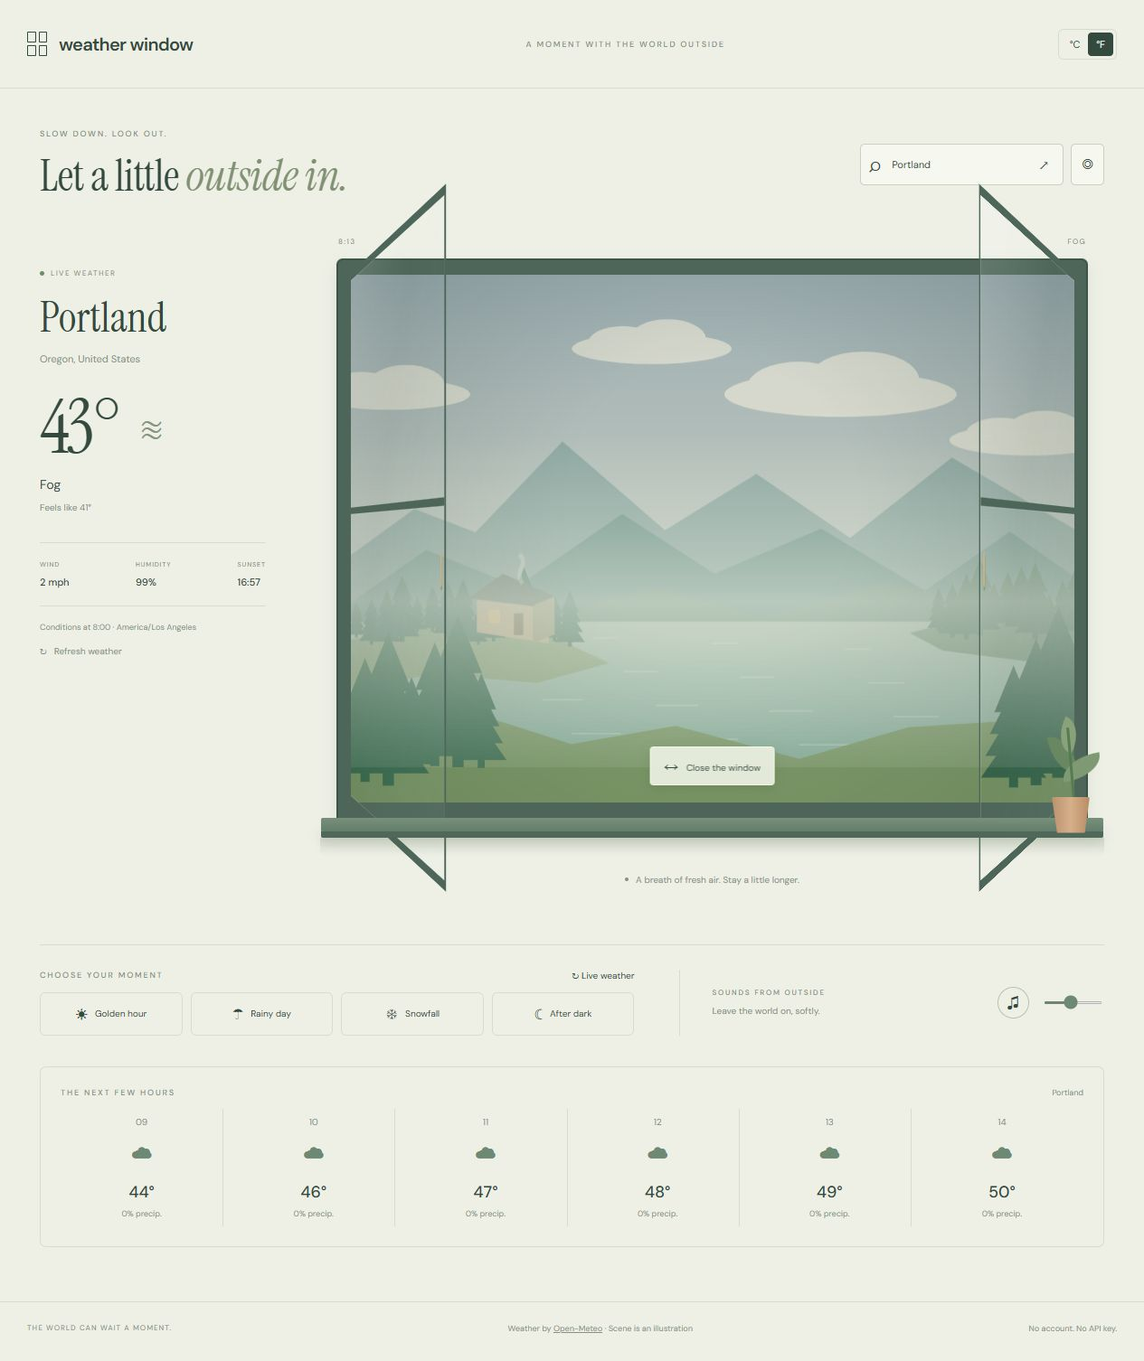
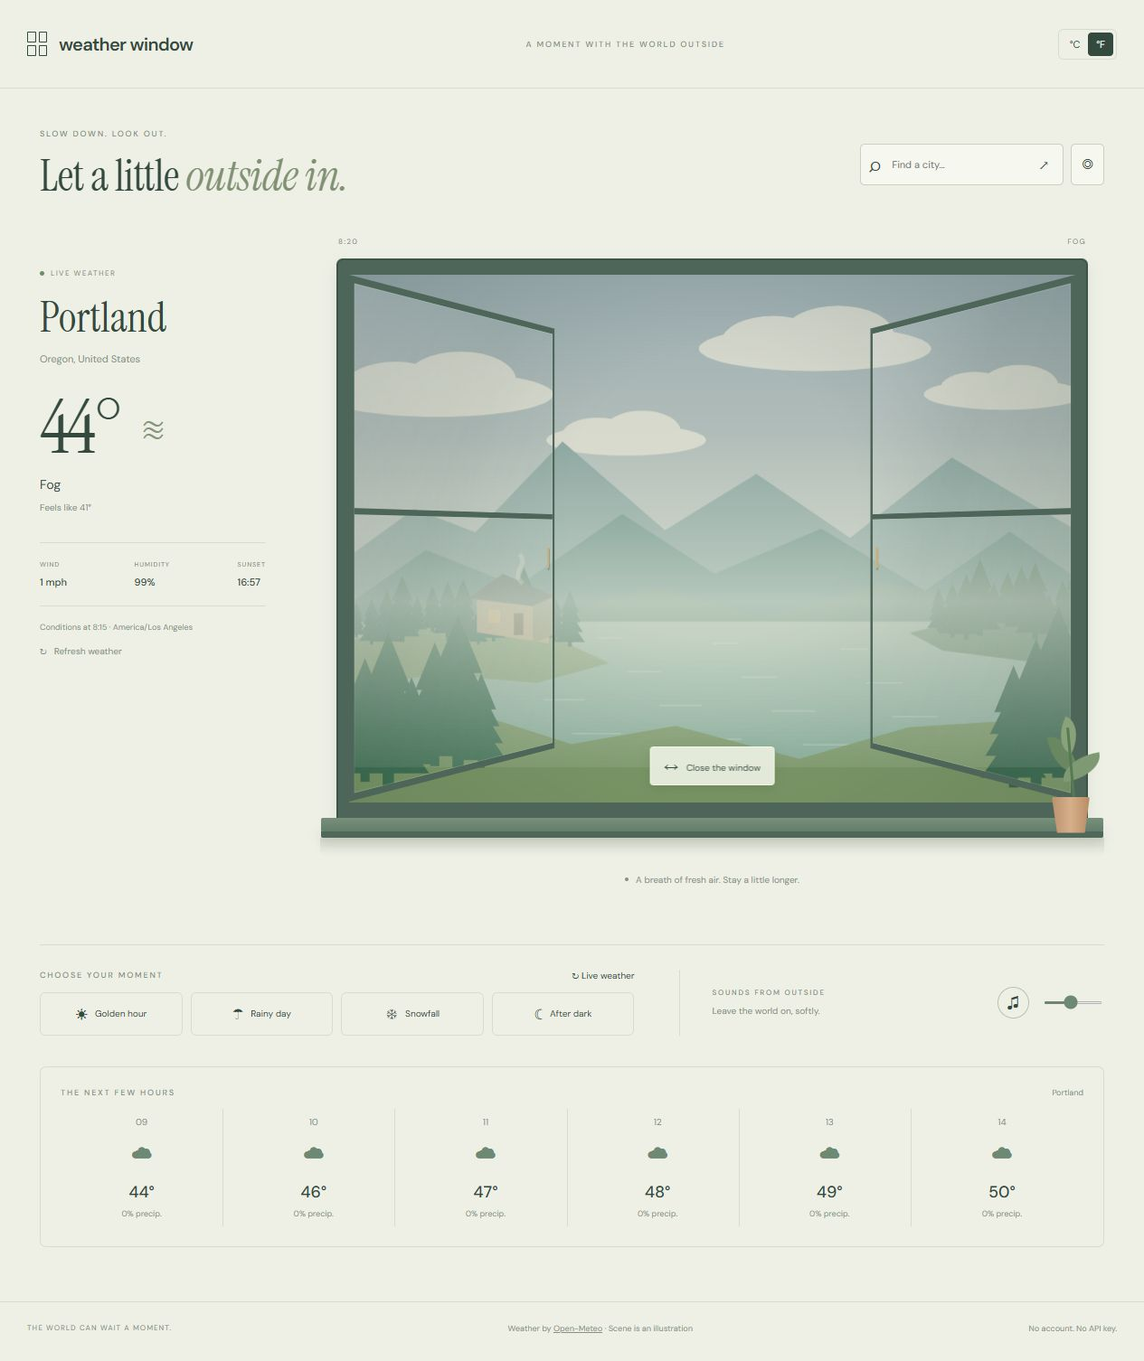
Open window panes outward without overlapping the page

diff --git a/style.css b/style.css
@@ -1,2 +1,2 @@
 @import url('https://fonts.googleapis.com/css2?family=DM+Sans:wght@400;500;600;700&family=Instrument+Serif:ital@0;1&display=swap');
-:root{--paper:#eef0e6;--ink:#354a3e;--muted:#869184;--line:#d6ddce;--accent:#6d8873;--frame:#4d6659}*{box-sizing:border-box}body{margin:0;background:var(--paper);color:var(--ink);font:13px 'DM Sans',sans-serif}button,input{font:inherit}button{color:inherit;cursor:pointer}button:focus-visible,a:focus-visible,input:focus-visible{outline:3px solid #a18150;outline-offset:4px}header,main,footer{max-width:1380px;margin:auto}header{height:98px;padding:0 30px;border-bottom:1px solid var(--line);display:flex;align-items:center;justify-content:space-between}.brand{color:var(--ink);text-decoration:none;display:flex;align-items:center;gap:13px;font-size:20px;font-weight:600;letter-spacing:-.7px}.window-logo{height:27px;width:22px;display:grid;grid-template-columns:1fr 1fr;gap:3px}.window-logo i{border:1.5px solid var(--ink);border-radius:1px}.header-note,.eyebrow{font-size:9px;letter-spacing:1.8px;color:var(--muted);font-weight:500}.unit-switch{border:1px solid var(--line);border-radius:6px;display:flex;padding:3px}.unit-switch button{border:0;background:none;padding:6px 9px;font-size:11px;border-radius:4px}.unit-switch button[aria-pressed=true]{background:var(--ink);color:var(--paper)}main{padding:0 44px}.top-line{margin:44px 0 40px;display:flex;align-items:center;justify-content:space-between;gap:25px}.eyebrow{margin:0 0 12px}h1{font:49px/1.15 'Instrument Serif',Georgia,serif;letter-spacing:-.6px;margin:0}h1 em{font-weight:400;color:#819174}.location-picker{position:relative;display:flex;gap:8px;flex-shrink:0}#search-form{display:flex;align-items:center;border:1px solid #c9d2c0;border-radius:5px;padding:7px 9px;gap:9px;background:#f6f7ef}#search-form>span{font-size:23px}#city{border:0;background:none;outline:none;width:150px;font-size:11px;color:var(--ink);padding:3px}#search-form button,.locate{border:0;background:none;font-size:16px}.locate{border:1px solid #c9d2c0;border-radius:5px;padding:8px 11px;background:#f6f7ef}#results{position:absolute;top:49px;left:0;right:0;padding:8px;background:#f8f9f1;border:1px solid var(--line);box-shadow:0 14px 24px #34462c22;z-index:10;border-radius:5px}#results button{width:100%;text-align:left;border:0;background:transparent;padding:11px 9px;border-radius:3px;font-size:12px}#results button:hover{background:#e6ebdd}#results button small{display:block;color:var(--muted);font-size:10px;margin-top:4px}.weather-layout{display:grid;grid-template-columns:250px minmax(0,1fr);gap:60px}.weather-details{padding:35px 0 0}.source-label{font-size:8px;letter-spacing:1.5px;display:flex;align-items:center;gap:7px;color:var(--muted)}.source-label i{width:5px;height:5px;background:#b4a17d;border-radius:50%}.live-mode .source-label i{background:#6f8d69}.weather-details h2{font:47px/1.08 'Instrument Serif',Georgia,serif;margin:19px 0 10px;overflow-wrap:anywhere}#place-detail{font-size:11px;line-height:1.6;color:var(--muted);margin-top:12px}.temperature{display:flex;gap:22px;align-items:center;margin-top:24px}#temperature{font:84px/1 'Instrument Serif',Georgia,serif;letter-spacing:-4px}#weather-icon{font-size:37px;color:#85967c}#condition{font-size:14px;margin:12px 0 6px}.feels-like{font-size:10px;color:var(--muted)}.weather-stats{margin-top:32px;border-top:1px solid var(--line);border-bottom:1px solid var(--line);padding:19px 0;display:flex;justify-content:space-between;gap:12px}.weather-stats span{font-size:7px;letter-spacing:1px;color:var(--muted);display:block}.weather-stats strong{font-size:11px;font-weight:500;display:block;margin-top:8px}.timestamp{font-size:9px;color:var(--muted);line-height:1.7;margin-top:16px}.text-button{border:0;background:none;font-size:10px;color:var(--muted);padding:0}.window-stage{position:relative;min-width:0;padding:0 20px 30px}.outside-caption{display:flex;justify-content:space-between;font-size:8px;letter-spacing:1.4px;color:var(--muted);margin-bottom:16px}.window-frame{position:relative;border:12px solid var(--frame);border-top-width:16px;border-bottom-width:18px;aspect-ratio:1.34;box-shadow:inset 0 0 0 5px #263d31,0 6px 16px #29402d22,0 0 0 2px #3e5547;background:#a4b7ac;border-radius:5px 5px 0 0;perspective:1400px;isolation:isolate}canvas{position:absolute;inset:0;width:100%;height:100%;display:block}.glass-pane{position:absolute;top:0;bottom:0;width:50%;border:8px solid var(--frame);background:linear-gradient(120deg,#fff2,transparent 40%,#d5e9e30d);box-shadow:inset 0 0 0 1px #ceddcc33;transition:transform 1.4s cubic-bezier(.2,.65,.3,1);z-index:2;pointer-events:none}.glass-pane:after{content:'';position:absolute;height:7px;background:var(--frame);width:100%;top:44%;box-shadow:0 1px #b9c7b833}.glass-pane.left{left:0;transform-origin:left center;border-right-width:5px}.glass-pane.right{right:0;transform-origin:right center;border-left-width:5px}.window-frame.open .left{transform:rotateY(-63deg)}.window-frame.open .right{transform:rotateY(63deg)}.handle{position:absolute;width:5px;height:30px;background:#c8b283;border-radius:3px;top:52%;box-shadow:1px 2px 2px #22352755}.left .handle{right:8px}.right .handle{left:8px}.rain-glass{position:absolute;inset:0;overflow:hidden;opacity:0;transition:opacity 1s}.rainy .rain-glass{opacity:1}.rain-glass:before{content:'';position:absolute;inset:-100% 0;background:repeating-linear-gradient(98deg,transparent 0 37px,#e1f2e51f 39px,transparent 41px 81px);animation:glass-rain 6s linear infinite}#window-toggle{position:absolute;z-index:4;bottom:19px;left:50%;transform:translateX(-50%);background:#eef2e4e6;color:#354a3e;border:1px solid #fafceac0;box-shadow:0 3px 12px #23392522;padding:10px 15px;border-radius:4px;font-size:10px;white-space:nowrap;backdrop-filter:blur(8px)}#window-toggle span{margin-right:6px;font-size:16px}.window-sill{position:relative;height:15px;background:linear-gradient(#78907b,#637e6b);margin:-1px -19px 0;box-shadow:0 7px 0 #4f6859,0 13px 13px #35503722;border-radius:2px}.sill-shadow{height:20px;background:linear-gradient(#acb6a266,transparent);margin:7px -20px 0}.window-note{font-size:10px;color:var(--muted);display:flex;align-items:center;justify-content:center;gap:8px;margin-top:20px}.sound-dot{width:4px;height:4px;background:var(--muted);border-radius:50%}.small-plant{position:absolute;right:6px;bottom:88px;width:70px;height:130px;z-index:5;pointer-events:none}.pot{position:absolute;bottom:0;left:18px;width:42px;height:40px;background:linear-gradient(90deg,#bb926e,#d6b08a,#b88b65);clip-path:polygon(0 0,100% 0,87% 100%,14% 100%);border-radius:2px}.stem{position:absolute;height:89px;width:3px;background:#567b52;bottom:28px;left:38px;transform:rotate(-5deg)}.leaf{position:absolute;background:#698862;border-radius:0 100% 0 100%;width:26px;height:44px;bottom:65px;left:17px;transform:rotate(-12deg)}.leaf.b{left:38px;bottom:51px;transform:rotate(80deg);background:#809975}.leaf.c{bottom:91px;left:25px;width:23px;height:35px;transform:rotate(25deg);background:#8aa27a}.bottom-panel{margin-top:35px;display:grid;grid-template-columns:1.4fr 1fr;gap:50px;border-top:1px solid var(--line);padding-top:27px}.section-title{display:flex;align-items:center;justify-content:space-between;margin-bottom:12px}.section-title .eyebrow{margin:0}.live-button{background:none;border:0;font-size:10px;color:var(--muted);padding:0}.live-mode .live-button{color:var(--ink)}.moods{display:flex;gap:9px}.moods button{display:flex;align-items:center;justify-content:center;gap:8px;padding:12px 14px;border:1px solid var(--line);border-radius:6px;background:transparent;font-size:10px;flex:1;white-space:nowrap}.moods button span{font-size:16px}.moods button:hover{background:#e6ebdf}.moods button.selected{background:#dfe6d7;border-color:#9dae96}.sound-section{display:flex;align-items:center;gap:14px;padding-left:35px;border-left:1px solid var(--line)}.sound-section>div{flex:1}.sound-section .eyebrow{font-size:8px;margin-bottom:9px}.sound-section p:last-child{font-size:10px;color:var(--muted);margin:0}.sound-toggle{width:35px;height:35px;border-radius:50%;border:1px solid #b6c4ac;background:transparent;font-size:19px}.sound-toggle[aria-pressed=true]{background:var(--ink);color:var(--paper)}input[type=range]{accent-color:var(--accent);height:3px;width:65px;cursor:pointer}.forecast-section{margin-top:34px;padding:22px;border:1px solid var(--line);border-radius:7px}.forecast-heading{display:flex;justify-content:space-between;font-size:9px;color:var(--muted)}.forecast{display:grid;grid-template-columns:repeat(6,1fr);gap:10px}.forecast article{text-align:center;border-right:1px solid var(--line);padding:8px}.forecast article:last-child{border-right:0}.forecast article span{display:block;color:var(--muted);font-size:10px}.forecast article .forecast-icon{font-size:25px;color:var(--accent);margin:12px 0}.forecast article strong{font-size:18px;font-weight:500}.forecast article small{display:block;font-size:9px;color:var(--muted);margin-top:6px}.status{min-height:20px;font-size:11px;line-height:1.6;color:#936644;margin:20px 0}footer{border-top:1px solid var(--line);padding:23px 30px 30px;display:flex;justify-content:space-between;font-size:8px;letter-spacing:1.1px;color:var(--muted);gap:20px}footer span:not(:first-child){letter-spacing:0;font-size:9px}footer a{color:var(--muted)}.sr-only{position:absolute;width:1px;height:1px;padding:0;margin:-1px;overflow:hidden;clip:rect(0,0,0,0);white-space:nowrap;border:0}button:disabled{opacity:.5;cursor:wait}@keyframes glass-rain{to{transform:translateY(32%)}}@media(max-width:1050px){main{padding:0 28px}.weather-layout{grid-template-columns:220px minmax(0,1fr);gap:32px}h1{font-size:43px}.top-line{gap:15px}.weather-details{padding-top:15px}.weather-details h2{font-size:40px}.weather-stats{margin-top:20px}.window-stage{padding:0 10px 30px}.bottom-panel{gap:22px}.sound-section{padding-left:20px}.moods button{padding:12px 8px;font-size:9px}.small-plant{right:-5px}}@media(max-width:800px){.header-note{display:none}.top-line{align-items:flex-start;flex-direction:column;gap:25px;margin:30px 0}.location-picker{width:100%}#search-form{flex:1}#city{width:100%}.weather-layout{grid-template-columns:170px minmax(0,1fr);gap:20px}.weather-details{padding:0}.weather-details h2{font-size:34px}.temperature{margin-top:18px;gap:15px}#temperature{font-size:66px}#weather-icon{font-size:27px}.window-frame{aspect-ratio:.88;border-width:9px}.weather-stats{gap:8px}.weather-stats strong{font-size:9px}.outside-caption{font-size:6px}.small-plant{transform:scale(.8);transform-origin:bottom right}.bottom-panel{display:block;margin-top:15px}.sound-section{border-left:0;border-top:1px solid var(--line);padding:20px 0 0;margin-top:24px}.sound-section input{width:100px}.moods button{font-size:11px}.forecast{gap:0}.forecast article{padding:5px}.forecast article span{font-size:8px}footer{flex-wrap:wrap}}@media(max-width:540px){header{height:80px;padding:0 22px}.brand{font-size:18px}main{padding:0 22px}h1{font-size:41px}.weather-layout{display:flex;flex-direction:column;gap:24px}.weather-details{display:grid;grid-template-columns:1fr 110px;position:relative}.source-label{grid-column:1/-1;font-size:7px}.weather-details h2{grid-column:1;grid-row:2;font-size:36px;max-width:230px;margin:14px 0 5px}.weather-details h2 br{display:none}#place-detail{grid-column:1;margin:4px 0;font-size:10px;max-width:220px}.temperature{grid-column:2;grid-row:2/4;align-self:center;justify-self:end;gap:10px}#temperature{font-size:65px}#weather-icon{font-size:27px}#condition{grid-column:1/-1;margin-top:10px;font-size:12px}.feels-like{grid-column:1/-1;margin:0}.weather-stats{grid-column:1/-1;justify-content:flex-start;gap:40px;padding:14px 0;margin-top:18px}.weather-stats strong{font-size:11px}.timestamp{grid-column:1/-1;margin-bottom:0}#refresh{grid-column:1/-1;text-align:left;margin-top:7px}.window-frame{aspect-ratio:1.05}.window-stage{padding:0 9px 17px}.small-plant{bottom:75px}.window-note{font-size:9px}.moods{gap:6px}.moods button{font-size:9px;gap:5px;padding:11px 6px}.moods button span{font-size:14px}.bottom-panel{padding-top:22px}.forecast-section{padding:16px 8px}.forecast article strong{font-size:15px}.forecast article .forecast-icon{font-size:20px}footer span:first-child{display:none}.forecast-heading{padding:0 8px}.window-note{margin-top:12px}}@media(prefers-reduced-motion:reduce){*,*:before,*:after{animation:none!important;transition:none!important}}
+:root{--paper:#eef0e6;--ink:#354a3e;--muted:#869184;--line:#d6ddce;--accent:#6d8873;--frame:#4d6659}*{box-sizing:border-box}body{margin:0;background:var(--paper);color:var(--ink);font:13px 'DM Sans',sans-serif}button,input{font:inherit}button{color:inherit;cursor:pointer}button:focus-visible,a:focus-visible,input:focus-visible{outline:3px solid #a18150;outline-offset:4px}header,main,footer{max-width:1380px;margin:auto}header{height:98px;padding:0 30px;border-bottom:1px solid var(--line);display:flex;align-items:center;justify-content:space-between}.brand{color:var(--ink);text-decoration:none;display:flex;align-items:center;gap:13px;font-size:20px;font-weight:600;letter-spacing:-.7px}.window-logo{height:27px;width:22px;display:grid;grid-template-columns:1fr 1fr;gap:3px}.window-logo i{border:1.5px solid var(--ink);border-radius:1px}.header-note,.eyebrow{font-size:9px;letter-spacing:1.8px;color:var(--muted);font-weight:500}.unit-switch{border:1px solid var(--line);border-radius:6px;display:flex;padding:3px}.unit-switch button{border:0;background:none;padding:6px 9px;font-size:11px;border-radius:4px}.unit-switch button[aria-pressed=true]{background:var(--ink);color:var(--paper)}main{padding:0 44px}.top-line{margin:44px 0 40px;display:flex;align-items:center;justify-content:space-between;gap:25px}.eyebrow{margin:0 0 12px}h1{font:49px/1.15 'Instrument Serif',Georgia,serif;letter-spacing:-.6px;margin:0}h1 em{font-weight:400;color:#819174}.location-picker{position:relative;display:flex;gap:8px;flex-shrink:0}#search-form{display:flex;align-items:center;border:1px solid #c9d2c0;border-radius:5px;padding:7px 9px;gap:9px;background:#f6f7ef}#search-form>span{font-size:23px}#city{border:0;background:none;outline:none;width:150px;font-size:11px;color:var(--ink);padding:3px}#search-form button,.locate{border:0;background:none;font-size:16px}.locate{border:1px solid #c9d2c0;border-radius:5px;padding:8px 11px;background:#f6f7ef}#results{position:absolute;top:49px;left:0;right:0;padding:8px;background:#f8f9f1;border:1px solid var(--line);box-shadow:0 14px 24px #34462c22;z-index:10;border-radius:5px}#results button{width:100%;text-align:left;border:0;background:transparent;padding:11px 9px;border-radius:3px;font-size:12px}#results button:hover{background:#e6ebdd}#results button small{display:block;color:var(--muted);font-size:10px;margin-top:4px}.weather-layout{display:grid;grid-template-columns:250px minmax(0,1fr);gap:60px}.weather-details{padding:35px 0 0}.source-label{font-size:8px;letter-spacing:1.5px;display:flex;align-items:center;gap:7px;color:var(--muted)}.source-label i{width:5px;height:5px;background:#b4a17d;border-radius:50%}.live-mode .source-label i{background:#6f8d69}.weather-details h2{font:47px/1.08 'Instrument Serif',Georgia,serif;margin:19px 0 10px;overflow-wrap:anywhere}#place-detail{font-size:11px;line-height:1.6;color:var(--muted);margin-top:12px}.temperature{display:flex;gap:22px;align-items:center;margin-top:24px}#temperature{font:84px/1 'Instrument Serif',Georgia,serif;letter-spacing:-4px}#weather-icon{font-size:37px;color:#85967c}#condition{font-size:14px;margin:12px 0 6px}.feels-like{font-size:10px;color:var(--muted)}.weather-stats{margin-top:32px;border-top:1px solid var(--line);border-bottom:1px solid var(--line);padding:19px 0;display:flex;justify-content:space-between;gap:12px}.weather-stats span{font-size:7px;letter-spacing:1px;color:var(--muted);display:block}.weather-stats strong{font-size:11px;font-weight:500;display:block;margin-top:8px}.timestamp{font-size:9px;color:var(--muted);line-height:1.7;margin-top:16px}.text-button{border:0;background:none;font-size:10px;color:var(--muted);padding:0}.window-stage{position:relative;min-width:0;padding:0 20px 30px}.outside-caption{display:flex;justify-content:space-between;font-size:8px;letter-spacing:1.4px;color:var(--muted);margin-bottom:16px}.window-frame{position:relative;border:12px solid var(--frame);border-top-width:16px;border-bottom-width:18px;aspect-ratio:1.34;box-shadow:inset 0 0 0 5px #263d31,0 6px 16px #29402d22,0 0 0 2px #3e5547;background:#a4b7ac;border-radius:5px 5px 0 0;perspective:1400px;isolation:isolate}canvas{position:absolute;inset:0;width:100%;height:100%;display:block}.glass-pane{position:absolute;top:0;bottom:0;width:50%;border:8px solid var(--frame);background:linear-gradient(120deg,#fff2,transparent 40%,#d5e9e30d);box-shadow:inset 0 0 0 1px #ceddcc33;transition:transform 1.4s cubic-bezier(.2,.65,.3,1);z-index:2;pointer-events:none}.glass-pane:after{content:'';position:absolute;height:7px;background:var(--frame);width:100%;top:44%;box-shadow:0 1px #b9c7b833}.glass-pane.left{left:0;transform-origin:left center;border-right-width:5px}.glass-pane.right{right:0;transform-origin:right center;border-left-width:5px}.window-frame.open .left{transform:rotateY(63deg)}.window-frame.open .right{transform:rotateY(-63deg)}.handle{position:absolute;width:5px;height:30px;background:#c8b283;border-radius:3px;top:52%;box-shadow:1px 2px 2px #22352755}.left .handle{right:8px}.right .handle{left:8px}.rain-glass{position:absolute;inset:0;overflow:hidden;opacity:0;transition:opacity 1s}.rainy .rain-glass{opacity:1}.rain-glass:before{content:'';position:absolute;inset:-100% 0;background:repeating-linear-gradient(98deg,transparent 0 37px,#e1f2e51f 39px,transparent 41px 81px);animation:glass-rain 6s linear infinite}#window-toggle{position:absolute;z-index:4;bottom:19px;left:50%;transform:translateX(-50%);background:#eef2e4e6;color:#354a3e;border:1px solid #fafceac0;box-shadow:0 3px 12px #23392522;padding:10px 15px;border-radius:4px;font-size:10px;white-space:nowrap;backdrop-filter:blur(8px)}#window-toggle span{margin-right:6px;font-size:16px}.window-sill{position:relative;height:15px;background:linear-gradient(#78907b,#637e6b);margin:-1px -19px 0;box-shadow:0 7px 0 #4f6859,0 13px 13px #35503722;border-radius:2px}.sill-shadow{height:20px;background:linear-gradient(#acb6a266,transparent);margin:7px -20px 0}.window-note{font-size:10px;color:var(--muted);display:flex;align-items:center;justify-content:center;gap:8px;margin-top:20px}.sound-dot{width:4px;height:4px;background:var(--muted);border-radius:50%}.small-plant{position:absolute;right:6px;bottom:88px;width:70px;height:130px;z-index:5;pointer-events:none}.pot{position:absolute;bottom:0;left:18px;width:42px;height:40px;background:linear-gradient(90deg,#bb926e,#d6b08a,#b88b65);clip-path:polygon(0 0,100% 0,87% 100%,14% 100%);border-radius:2px}.stem{position:absolute;height:89px;width:3px;background:#567b52;bottom:28px;left:38px;transform:rotate(-5deg)}.leaf{position:absolute;background:#698862;border-radius:0 100% 0 100%;width:26px;height:44px;bottom:65px;left:17px;transform:rotate(-12deg)}.leaf.b{left:38px;bottom:51px;transform:rotate(80deg);background:#809975}.leaf.c{bottom:91px;left:25px;width:23px;height:35px;transform:rotate(25deg);background:#8aa27a}.bottom-panel{margin-top:35px;display:grid;grid-template-columns:1.4fr 1fr;gap:50px;border-top:1px solid var(--line);padding-top:27px}.section-title{display:flex;align-items:center;justify-content:space-between;margin-bottom:12px}.section-title .eyebrow{margin:0}.live-button{background:none;border:0;font-size:10px;color:var(--muted);padding:0}.live-mode .live-button{color:var(--ink)}.moods{display:flex;gap:9px}.moods button{display:flex;align-items:center;justify-content:center;gap:8px;padding:12px 14px;border:1px solid var(--line);border-radius:6px;background:transparent;font-size:10px;flex:1;white-space:nowrap}.moods button span{font-size:16px}.moods button:hover{background:#e6ebdf}.moods button.selected{background:#dfe6d7;border-color:#9dae96}.sound-section{display:flex;align-items:center;gap:14px;padding-left:35px;border-left:1px solid var(--line)}.sound-section>div{flex:1}.sound-section .eyebrow{font-size:8px;margin-bottom:9px}.sound-section p:last-child{font-size:10px;color:var(--muted);margin:0}.sound-toggle{width:35px;height:35px;border-radius:50%;border:1px solid #b6c4ac;background:transparent;font-size:19px}.sound-toggle[aria-pressed=true]{background:var(--ink);color:var(--paper)}input[type=range]{accent-color:var(--accent);height:3px;width:65px;cursor:pointer}.forecast-section{margin-top:34px;padding:22px;border:1px solid var(--line);border-radius:7px}.forecast-heading{display:flex;justify-content:space-between;font-size:9px;color:var(--muted)}.forecast{display:grid;grid-template-columns:repeat(6,1fr);gap:10px}.forecast article{text-align:center;border-right:1px solid var(--line);padding:8px}.forecast article:last-child{border-right:0}.forecast article span{display:block;color:var(--muted);font-size:10px}.forecast article .forecast-icon{font-size:25px;color:var(--accent);margin:12px 0}.forecast article strong{font-size:18px;font-weight:500}.forecast article small{display:block;font-size:9px;color:var(--muted);margin-top:6px}.status{min-height:20px;font-size:11px;line-height:1.6;color:#936644;margin:20px 0}footer{border-top:1px solid var(--line);padding:23px 30px 30px;display:flex;justify-content:space-between;font-size:8px;letter-spacing:1.1px;color:var(--muted);gap:20px}footer span:not(:first-child){letter-spacing:0;font-size:9px}footer a{color:var(--muted)}.sr-only{position:absolute;width:1px;height:1px;padding:0;margin:-1px;overflow:hidden;clip:rect(0,0,0,0);white-space:nowrap;border:0}button:disabled{opacity:.5;cursor:wait}@keyframes glass-rain{to{transform:translateY(32%)}}@media(max-width:1050px){main{padding:0 28px}.weather-layout{grid-template-columns:220px minmax(0,1fr);gap:32px}h1{font-size:43px}.top-line{gap:15px}.weather-details{padding-top:15px}.weather-details h2{font-size:40px}.weather-stats{margin-top:20px}.window-stage{padding:0 10px 30px}.bottom-panel{gap:22px}.sound-section{padding-left:20px}.moods button{padding:12px 8px;font-size:9px}.small-plant{right:-5px}}@media(max-width:800px){.header-note{display:none}.top-line{align-items:flex-start;flex-direction:column;gap:25px;margin:30px 0}.location-picker{width:100%}#search-form{flex:1}#city{width:100%}.weather-layout{grid-template-columns:170px minmax(0,1fr);gap:20px}.weather-details{padding:0}.weather-details h2{font-size:34px}.temperature{margin-top:18px;gap:15px}#temperature{font-size:66px}#weather-icon{font-size:27px}.window-frame{aspect-ratio:.88;border-width:9px}.weather-stats{gap:8px}.weather-stats strong{font-size:9px}.outside-caption{font-size:6px}.small-plant{transform:scale(.8);transform-origin:bottom right}.bottom-panel{display:block;margin-top:15px}.sound-section{border-left:0;border-top:1px solid var(--line);padding:20px 0 0;margin-top:24px}.sound-section input{width:100px}.moods button{font-size:11px}.forecast{gap:0}.forecast article{padding:5px}.forecast article span{font-size:8px}footer{flex-wrap:wrap}}@media(max-width:540px){header{height:80px;padding:0 22px}.brand{font-size:18px}main{padding:0 22px}h1{font-size:41px}.weather-layout{display:flex;flex-direction:column;gap:24px}.weather-details{display:grid;grid-template-columns:1fr 110px;position:relative}.source-label{grid-column:1/-1;font-size:7px}.weather-details h2{grid-column:1;grid-row:2;font-size:36px;max-width:230px;margin:14px 0 5px}.weather-details h2 br{display:none}#place-detail{grid-column:1;margin:4px 0;font-size:10px;max-width:220px}.temperature{grid-column:2;grid-row:2/4;align-self:center;justify-self:end;gap:10px}#temperature{font-size:65px}#weather-icon{font-size:27px}#condition{grid-column:1/-1;margin-top:10px;font-size:12px}.feels-like{grid-column:1/-1;margin:0}.weather-stats{grid-column:1/-1;justify-content:flex-start;gap:40px;padding:14px 0;margin-top:18px}.weather-stats strong{font-size:11px}.timestamp{grid-column:1/-1;margin-bottom:0}#refresh{grid-column:1/-1;text-align:left;margin-top:7px}.window-frame{aspect-ratio:1.05}.window-stage{padding:0 9px 17px}.small-plant{bottom:75px}.window-note{font-size:9px}.moods{gap:6px}.moods button{font-size:9px;gap:5px;padding:11px 6px}.moods button span{font-size:14px}.bottom-panel{padding-top:22px}.forecast-section{padding:16px 8px}.forecast article strong{font-size:15px}.forecast article .forecast-icon{font-size:20px}footer span:first-child{display:none}.forecast-heading{padding:0 8px}.window-note{margin-top:12px}}@media(prefers-reduced-motion:reduce){*,*:before,*:after{animation:none!important;transition:none!important}}
